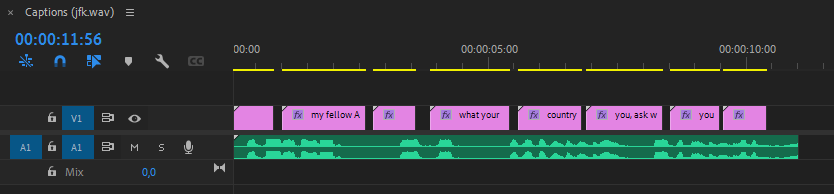
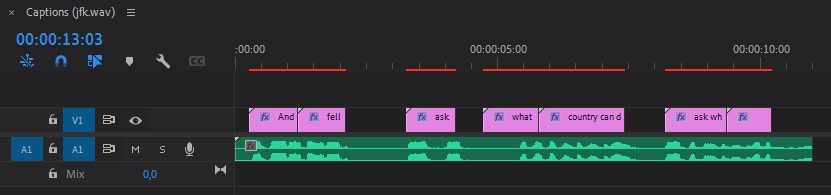
Update for stable-ts version 2

diff --git a/transcribe.py b/transcribe.py
@@ -1,117 +1,36 @@
 from hashlib import md5
-from itertools import chain
 import os, sys
 import torch, gc
 import json
-from stable_whisper import load_model, to_srt, transcribe_word_level, finalize_segment_word_ts
+from stable_whisper import load_model, WhisperResult
 from log import log, console
 
 DIR = sys.path[0]
-
-def add_start_end_times(results):
-    # Add last word, one second later
-    results += [{'word': '', 'timestamp': results[-1]['timestamp'] + 1}]
-    
-    new_results = []
-    for i in range(len(results) - 1):
-        item = {
-            'text': results[i]['word'],
-            'start': results[i]['timestamp'],
-            'end': results[i + 1]['timestamp'],
-        }
-        new_results.append(item)
-
-    return new_results
-
-def finalize_results(results):
-    # Get start and end timestamps for each word
-    results = finalize_segment_word_ts(results)
-    # Move timestamps to text objects
-    results = [dict(text=j[0], **j[1]) for j in chain.from_iterable(zip(*i) for i in results)]
-    # Round timestamps to 3 decimal places
-    results = [dict(text=j['text'], start=round(j['start'], 3), end=round(j['end'], 3)) for j in results]
-
-    return results
-
-def make_words_whole(results):
-    """Sticks whole words together"""
-    new_results = []
-    for i in results:
-        if not i['text'].startswith(' '):
-            new_results[-1]['text'] += i['text']
-            new_results[-1]['end'] = i['end']
-        else:
-            new_results.append(i)
-    
-    return new_results
-
-def split_into_words(results):
-    """Split on spaces, then linearly interpolate the timestamps for each word using the length of the word."""
-    new_results = []
-    for i in results:
-        words = i['text'].split()
-        for j in range(len(words)):
-            word = words[j]
-            start = i['start'] + (i['end'] - i['start']) * sum(len(k) for k in words[:j]) / len(i['text'])
-            end = i['start'] + (i['end'] - i['start']) * sum(len(k) for k in words[:j + 1]) / len(i['text'])
-            new_results.append(dict(text=word, start=start, end=end))
-    
-    return new_results
-
-def combine_to_segments(results, max_time=1, max_length=20):
-    """Combine some word that are close to each other, to form small phrases.
-
-    Basically records audio for 1 second, and combine all words in that second. The last word might overflow a bit, 
-    but then we start the new second of recording at the end of the previous word.
-    """
-    new_results = []
-    current_start = results[0]['start']
-    current_end = results[0]['end']
-    current_text = results[0]['text']
-    for i in results[1:]:
-        # If the current word is too far away from the previous word, we start a new phrase
-        # If the previous word ends with a punctuation mark, we start a new phrase
-        # If the previous phrase is too long, we start a new phrase
-        if i['start'] - current_start > max_time or \
-                current_text[-1] in '.?!' or \
-                len(current_text + i['text']) > max_length:
-            # If the current word is too far away from the previous word, we start a new phrase
-            new_results.append(dict(start=current_start, end=current_end, text=current_text))
-            current_start = i['start']
-            current_end = i['end']
-            current_text = i['text'].lstrip()
-        else:
-            # Combine words that are close to each other
-            current_end = i['end']
-            current_text += " " + i['text']
-    
-    new_results.append(dict(start=current_start, end=current_end, text=current_text))
-    
-    return new_results
 
 def unique_filename(filepath, model_name):
     hash = md5(open(filepath, 'rb').read()).hexdigest()
     path = os.path.join(DIR, 'cache', f"{hash}-{model_name}.json")
     return path
 
-def get_cache(filepath, model_name):
+def get_cache(filepath, model_name) -> WhisperResult:
     """Check if the Whisper output is cached, and if so, return it."""
     filepath = unique_filename(filepath, model_name)
     if os.path.exists(filepath):
         with open(filepath, 'r') as f:
-            return json.load(f)
+            return WhisperResult(json.load(f))
 
-def put_cache(filepath, model_name, results):
+def put_cache(filepath, model_name, results: WhisperResult):
     """Cache the Whisper output."""
+    os.makedirs(os.path.join(DIR, 'cache'), exist_ok=True)
     filepath = unique_filename(filepath, model_name)
     with open(filepath, 'w') as f:
-        json.dump(results, f)
+        json.dump(results.to_dict(), f)
 
 # Convert audio to SRT using Whisper
-def transcribe_to_srt(filepath, model_name='small', max_time=1, max_length=20):
+def transcribe_to_srt(filepath, model_name='small', split_gap=0.5, split_length=20):
     cached = get_cache(filepath, model_name)
     if cached:
-        results = cached
+        result = cached
         log.success("Loaded [green]CACHED[/green] Whisper results!")
     else:
         # Load model
@@ -120,32 +39,29 @@ def transcribe_to_srt(filepath, model_name='small', max_time=1, max_length=20):
         log.success("Loaded Whisper model")
         # Start transcribing
         log.progress(f"Transcribing using Whisper (this may take some time)...")
-        results = transcribe_word_level(model, filepath, pbar=True)
+        result: WhisperResult = model.transcribe(filepath, regroup=False)
         
-        put_cache(filepath, model_name, results)
+        put_cache(filepath, model_name, result)
         log.success("Completed Whisper (and saved to cache)")
     
     # Convert format and combine words
-    with console.status(f"Finalizing Whisper results...", spinner="arc", spinner_style="blue"):
-        # Format
-        results = finalize_results(results)
-        
-        # # Print temporary results
-        # for i in results:
-        #     print(f"[{i['start']:0.2f} - {i['end']:0.2f}] {i['text']}")
-        
-        # Post processing
-        results = make_words_whole(results)
-        results = split_into_words(results)
-        results = combine_to_segments(results, max_time=max_time, max_length=max_length)
-        # TODO: maybe use a mask to remove when silent? need to parse wav file
+    with console.status(f"Regrouping words...", spinner="arc", spinner_style="blue"):
+        (  # Thanks stable-ts for a better implementation of what I did myself :)
+            result
+            .clamp_max()
+            .split_by_punctuation([('.', ' '), '。', '?', '？', (',', ' '), '，'])  # Use nice split places
+            .split_by_gap(split_gap)  # Split gaps of >0.3 seconds
+            .split_by_length(split_length)  # Max length of 20 characters
+            .split_by_punctuation([('.', ' '), '。', '?', '？'])  # Force split by punctuation
+        )
         
         srt_filepath = filepath + '.srt'
-        to_srt(results, srt_filepath)
+        result.to_srt_vtt(srt_filepath, word_level=False)
+        # TODO: In the future maybe add word-level animation?
     
     # Print results
-    for i in results:
-        print(f"[{i['start']:0.2f} - {i['end']:0.2f}] {i['text']}")
+    for seg in result.to_dict()['segments']:
+        print(f"[{seg['start']:0.2f} - {seg['end']:0.2f}]  {seg['text'].strip()}")
 
     log.success(f"Succesfully transcribed audio!")
     

diff --git a/main.py b/main.py
@@ -5,8 +5,7 @@ from log import console, log
 log.progress("Loading modules...")
 
 import tkinter
-from tkinter import ttk
-from tkinter import ACTIVE, DISABLED, filedialog
+from tkinter import ttk, ACTIVE, DISABLED, filedialog
 import sv_ttk
 from pathlib import Path
 import subprocess
@@ -58,14 +57,14 @@ def file_save():
     
     # Get configuration
     config_model = model_variable.get()
-    config_max_time = float(max_time_variable.get())
-    config_max_length = int(max_length_variable.get())
+    config_split_gap = float(split_gap_variable.get())
+    config_split_length = int(split_length_variable.get())
 
     # Transcribe audio using Whisper
     srt_filepath = transcribe_to_srt(input_filepath, 
                                      model_name=config_model,
-                                     max_time=config_max_time,
-                                     max_length=config_max_length)
+                                     split_gap=config_split_gap,
+                                     split_length=config_split_length)
 
     # Convert SRT to Premiere XML text layers
     outfile = srt_to_xml(srt_filepath, f.name)
@@ -119,19 +118,19 @@ model_variable.set("small")
 model_combobox = ttk.Combobox(config_frame, values=["small", "medium", "large"], textvariable=model_variable)
 model_combobox.grid(row=1, column=0)
 
-max_time_label = ttk.Label(config_frame, text="Max time (s)")
-max_time_label.grid(row=0, column=1)
-max_time_variable = tkinter.StringVar(window)
-max_time_variable.set("1.0")
-max_time_spinbox = ttk.Spinbox(config_frame, from_=0, to=5, increment=0.1, textvariable=max_time_variable)
-max_time_spinbox.grid(row=1, column=1)
+split_gap_label = ttk.Label(config_frame, text="Split silence (s)")
+split_gap_label.grid(row=0, column=1)
+split_gap_variable = tkinter.StringVar(window)
+split_gap_variable.set("0.5")
+split_gap_spinbox = ttk.Spinbox(config_frame, from_=0, to=5, increment=0.1, textvariable=split_gap_variable)
+split_gap_spinbox.grid(row=1, column=1)
 
-max_length_label = ttk.Label(config_frame, text="Max characters")
-max_length_label.grid(row=0, column=2)
-max_length_variable = tkinter.StringVar(window)
-max_length_variable.set("20")
-max_length_spinbox = ttk.Spinbox(config_frame, from_=0, to=100, increment=1, textvariable=max_length_variable)
-max_length_spinbox.grid(row=1, column=2)
+split_length_label = ttk.Label(config_frame, text="Split length (chars)")
+split_length_label.grid(row=0, column=2)
+split_length_variable = tkinter.StringVar(window)
+split_length_variable.set("20")
+split_length_spinbox = ttk.Spinbox(config_frame, from_=0, to=100, increment=1, textvariable=split_length_variable)
+split_length_spinbox.grid(row=1, column=2)
 
 for widget in config_frame.winfo_children():
     widget.grid_configure(padx=10, pady=10)

diff --git a/README.md b/README.md
@@ -2,9 +2,11 @@
 
 **Transcribe an audio file to Premiere Pro layers**
 
-A GUI tool that uses [OpenAI's Whisper](https://github.com/openai/whisper) to transcribe text from an audio/video file, into a Premiere Pro sequence to automate the creation of subtitles. Mainly for adding quick subtitles to action-packed video's, by making segments of a small word count. 
+A GUI tool that uses [OpenAI's Whisper](https://github.com/openai/whisper) to transcribe text from an audio/video file, into a Premiere Pro sequence to automate the creation of subtitles. Mainly for adding quick subtitles to action-packed videos, by making segments of a small word count. 
 
 Outputs a `.xml` file which is a sequence containing text layers (Essential Graphics) that can be imported into your Premiere Pro project. 
+
+Uses [`stable-ts`](https://github.com/jianfch/stable-ts) regrouping functions to split the result into small configurable segments. 
 
 ## Installation
 
@@ -12,8 +14,6 @@ Outputs a `.xml` file which is a sequence containing text layers (Essential Grap
 git clone https://github.com/JorianWoltjer/AutoCaptions.git && cd AutoCaptions
 python -m pip install -r requirements.txt
 ```
-
-> **Warning**: The installation is not thoroughly tested, so let me know if any problems arise by creating an [Issue](https://github.com/JorianWoltjer/AutoCaptions/issues) for example. 
 
 ### Torch
 
@@ -52,7 +52,7 @@ Simply create a shortcut to [`start.bat`](start.bat)
 ###### Linux
 
 ```shell
-$ python3 main.py
+$ python main.py
 ```
 
 ## Example
